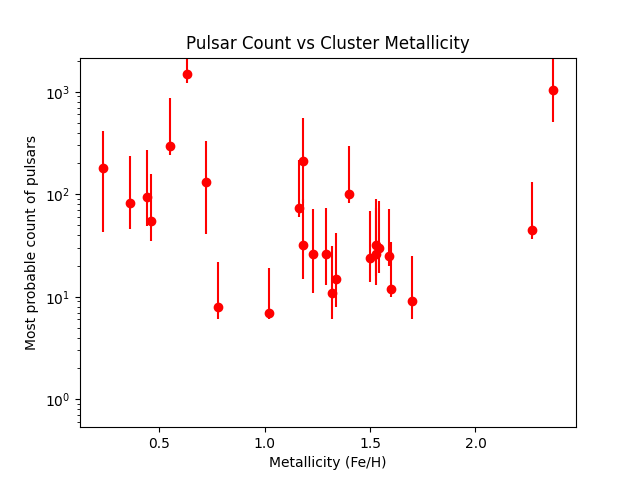
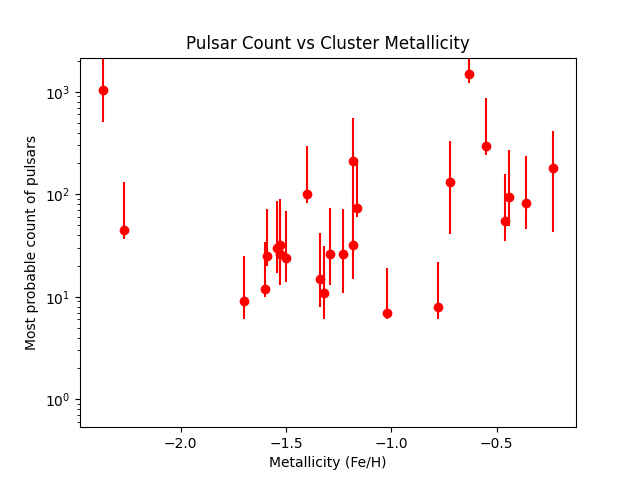
added absmag plot, adjusted slice bounds

diff --git a/readClusterData.py b/readClusterData.py
@@ -11,19 +11,20 @@ with open("firstPass.dat") as dicFile:
 #hard-coded column name, start of slice, end of slice tuples for table III properties
 DATA_FILE_COLUMNS = [
         ("radialVelocity", 13, 20), #this should have no correlation, good to check
-        ("centralConcentration", 50, 55),
-        ("coreObsRadiusArcMin", 60, 65), #in arcmin, need cluster distance
+        ("centralConcentration", 49, 55),
+        ("coreObsRadiusArcMin", 59, 65), #in arcmin, need cluster distance
         ("luminosityDensity", 80, 87),
-        ("velocityDispersion", 37, 42),
+        ("velocityDispersion", 36, 42),
     ]
 
 GENERATE_PLOTS = [ #code name, table header tuples
         ("radialVelocity", "Pulsar Count vs Heliocentric Radial Velocity", "Radial Velocity (km s^-1)"),
         ("centralConcentration", "Pulsar Count vs King-model Central Concentration", "Central Concentration"),
-        ("luminosityDensity", "Pulsar Count vs Central Luminosity Density", "Luminosity Density (L_☉ pc^-3)"),
+        ("luminosityDensity", "Pulsar Count vs Central Luminosity Density", "Luminosity Density, log(L_☉ pc^-3)"),
         ("coreRadiusPc", "Pulsar Count vs Core Radius", "Core Radius (pc)"),
-        ("velocityDispersion", "Pulsar Count vs Central Velocity Dispersion", "Central Velocity Dispersion (km/s)"),
-        ("metallicity", "Pulsar Count vs Cluster Metallicity", "Metallicity (Fe/H)")
+        ("velocityDispersion", "Pulsar Count vs Central Velocity Dispersion", "Central Velocity Dispersion, log(km/s)"),
+        ("metallicity", "Pulsar Count vs Cluster Metallicity", "Metallicity (Fe/H)"),
+        ("absMag", "Pulsar Count vs Absolute Visual Magnitude", "Absolute Magnitude")
     ]
 
 MIN_OBSERVATIONS = 0 #adjust to eliminate low-data clusters
@@ -44,9 +45,10 @@ with open("clusterData.dat") as dataFile:
             raise ValueError(f"{clusterName} is invalid. Perhaps it has a different name?")
         #Retrieve cluster distance from table I
         rowNumI = idListTableI.index(clusterName)
-        clusterDic[clusterName]["distanceKPc"] = float(dataFileTableI[rowNumI][68:73]) 
+        clusterDic[clusterName]["distanceKPc"] = float(dataFileTableI[rowNumI][67:74]) 
         rowNumMetal = idListTableII.index(clusterName)
-        clusterDic[clusterName]["metallicity"] = float(dataFileTableII[rowNumMetal][14:19])
+        clusterDic[clusterName]["metallicity"] = float(dataFileTableII[rowNumMetal][12:19])
+        clusterDic[clusterName]["absMag"] = float(dataFileTableII[rowNumMetal][47:54])
         #Go through desired properties defined in DATA_FILE_COLUMNS and add to clusterDic
         rowNum = idListTableIII.index(clusterName)
         for prop, start, end in DATA_FILE_COLUMNS:
